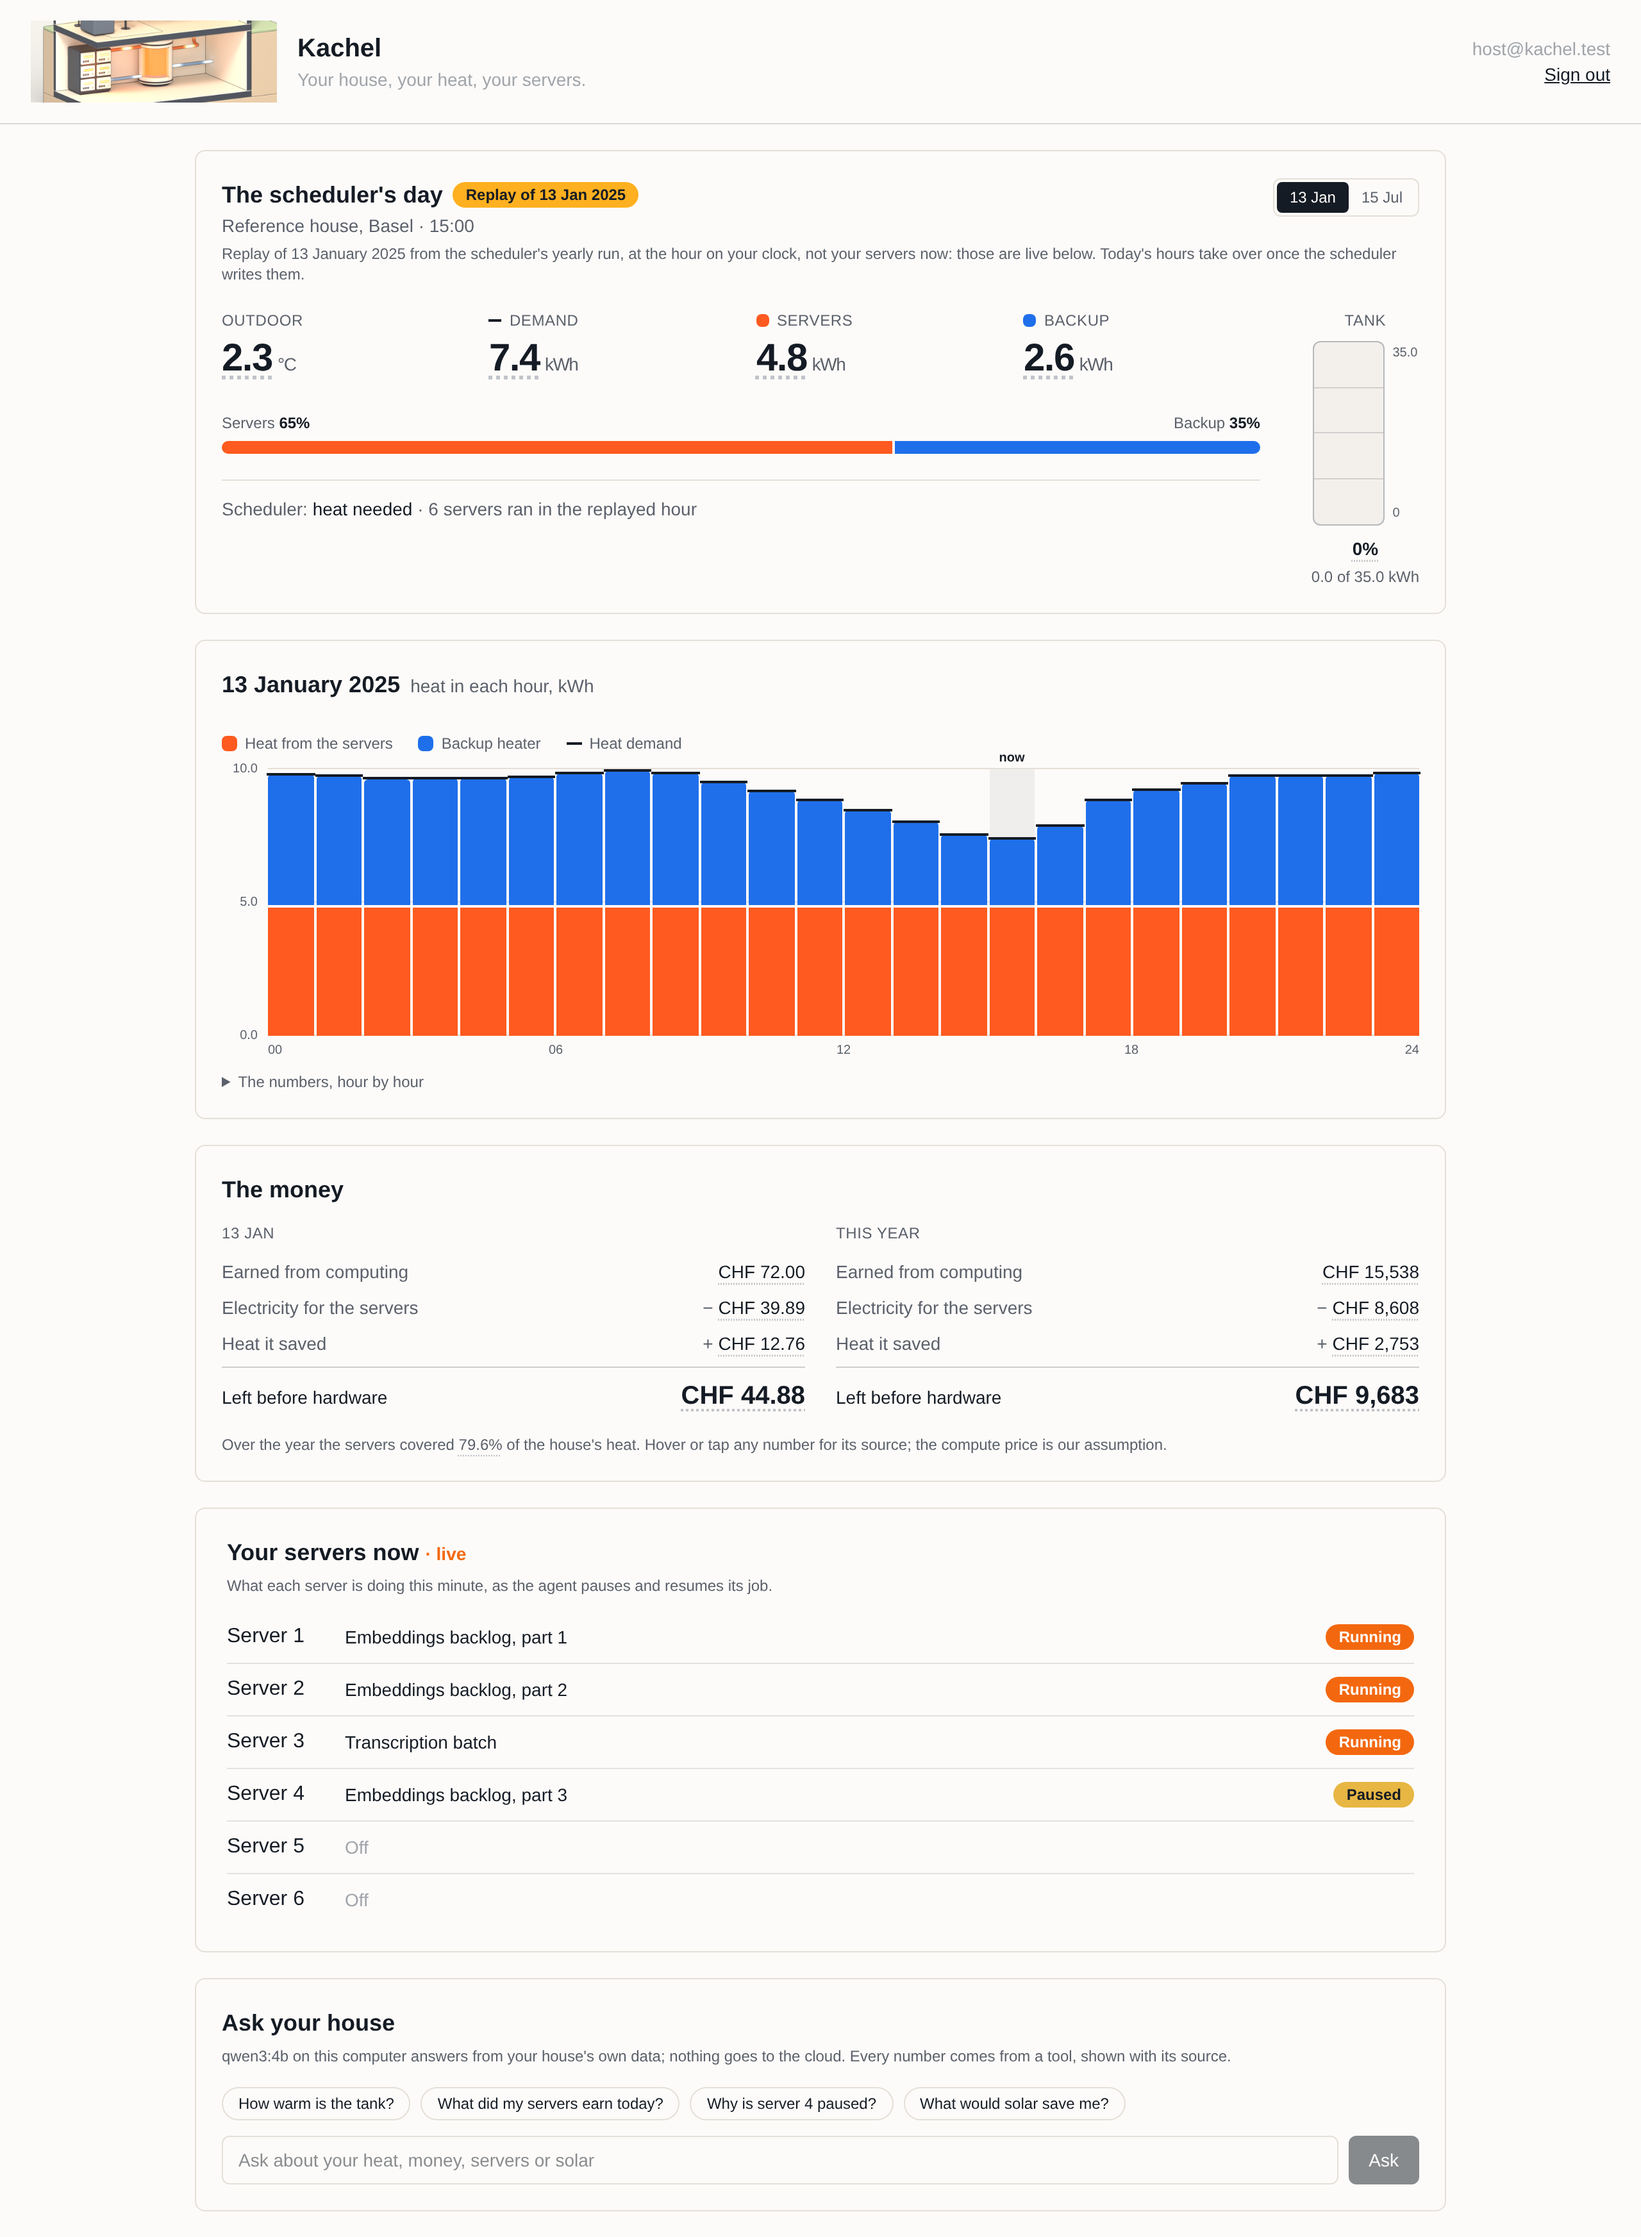
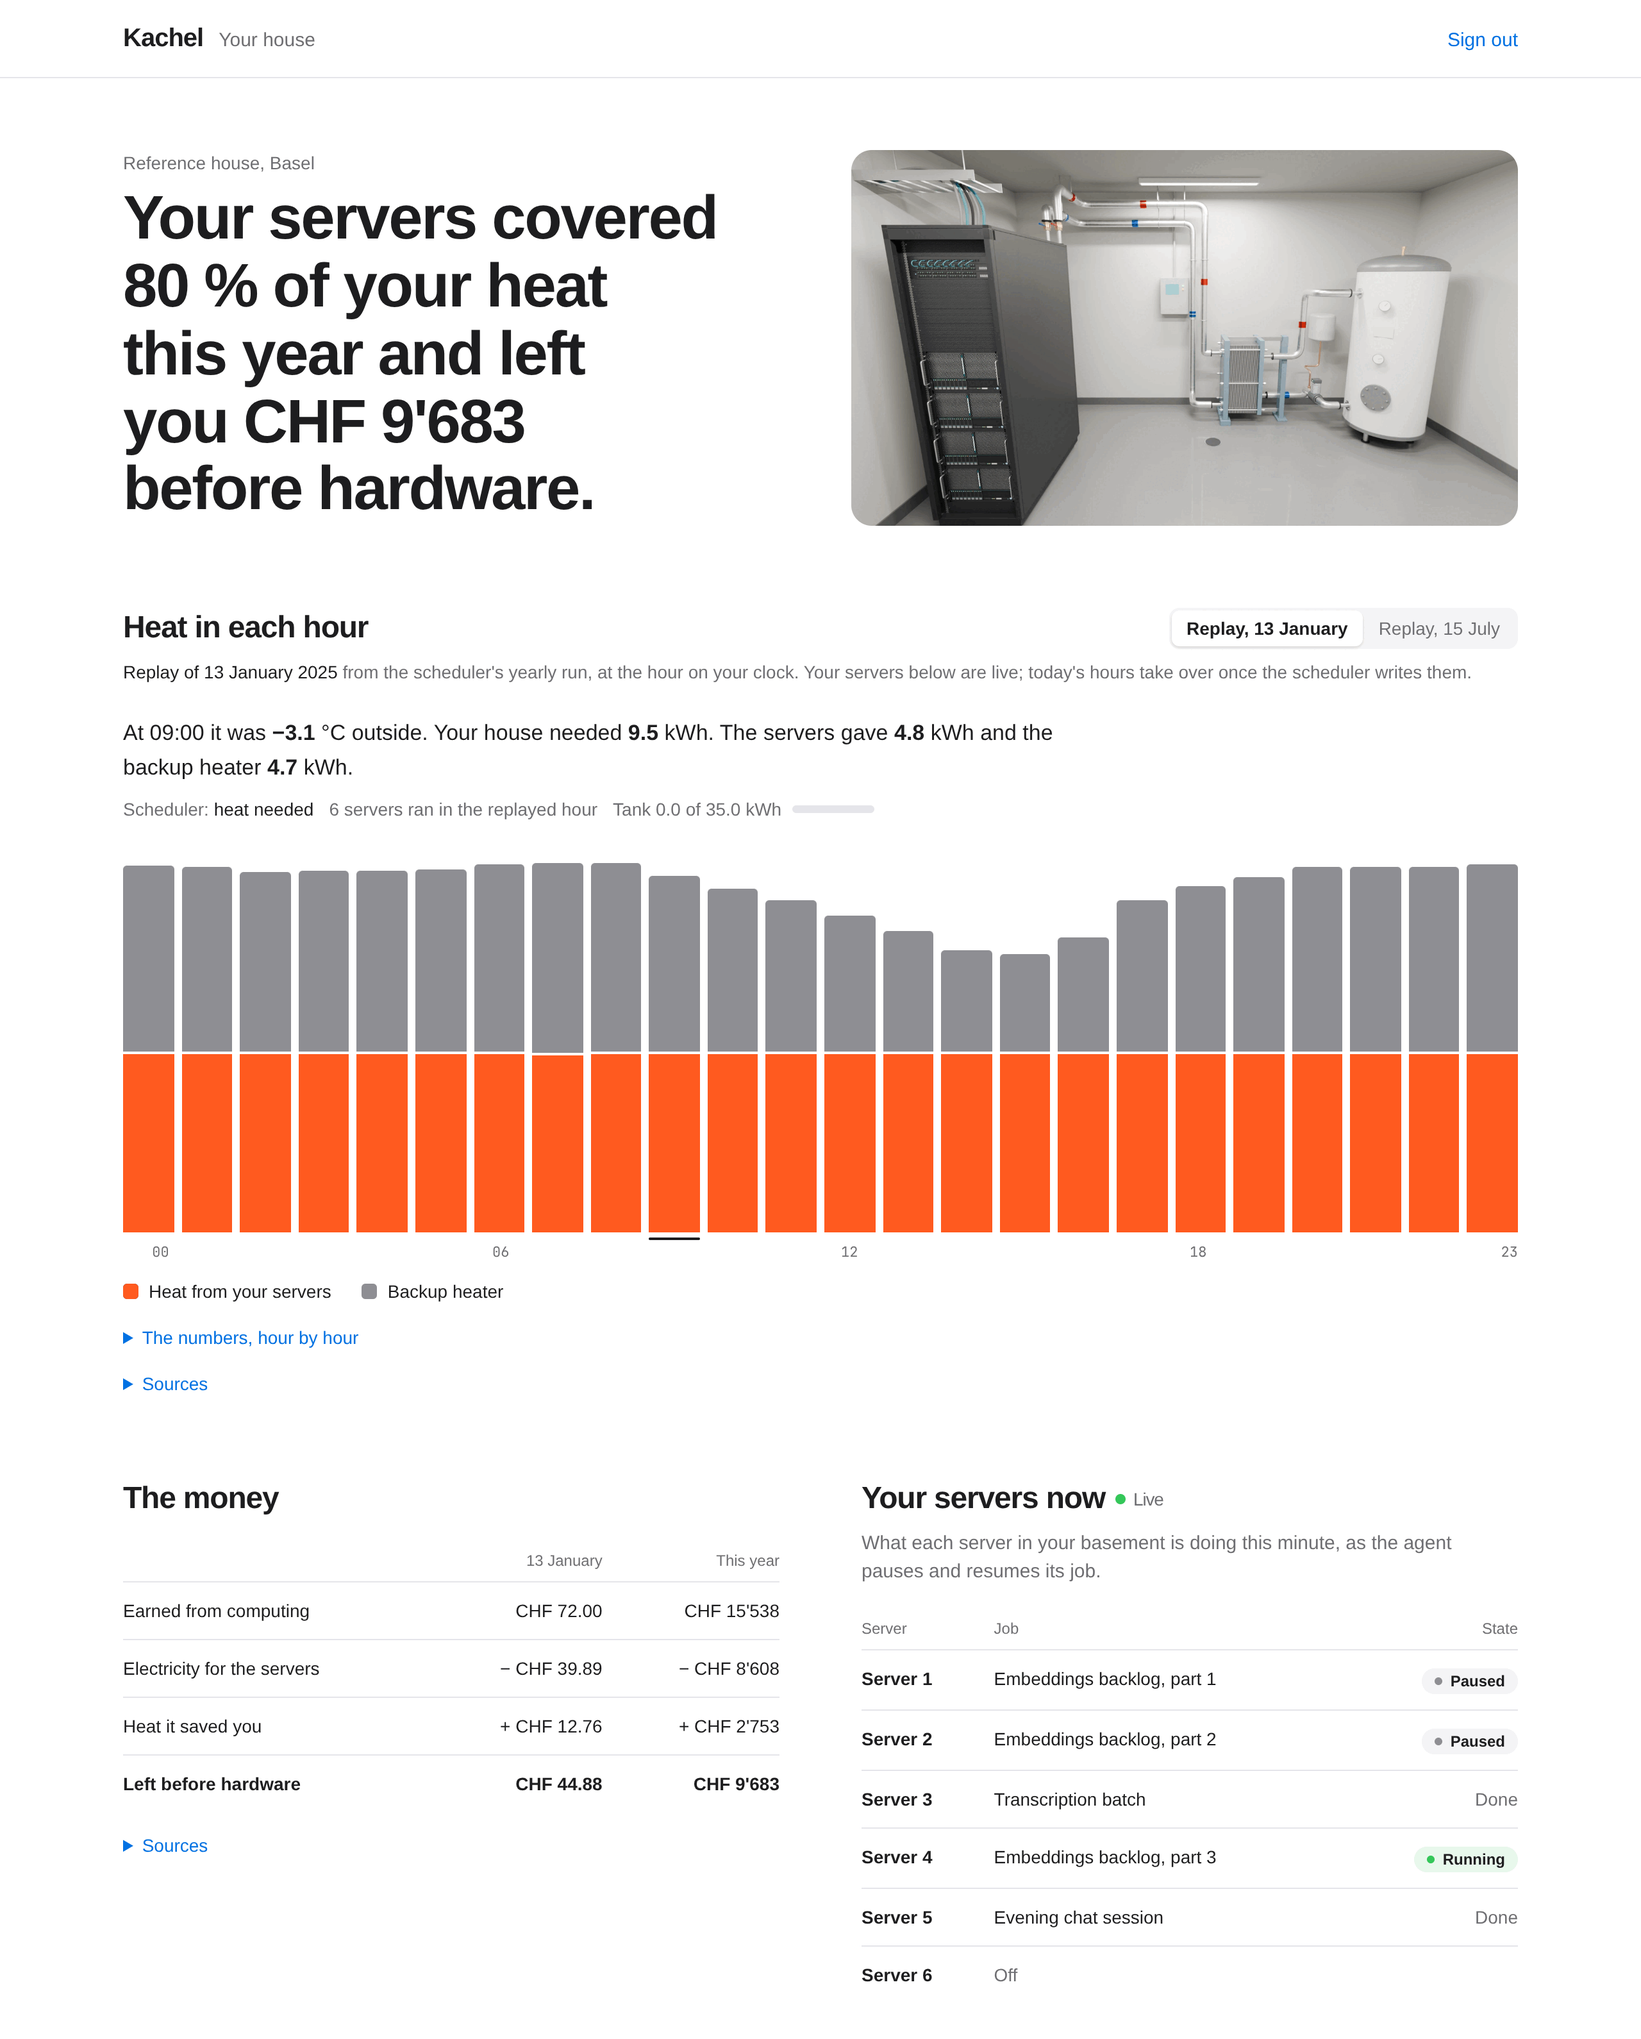
README and wiki: the redesigned consoles, and the operator console (#232)
What: retakes the host app and console screenshots, adds the operator
console (Today, Billing → Settlement, The device) to the README,
docs/media and the wiki, and drops the old dark operator view.
Why: the README still showed the apps from before the redesign (#216),
and the device page from #230 is now on main.
Checked: 1280 px, 2x, en-GB in headless Chromium, every image inspected
close up; `pnpm format:check`, `make check-readme` and the markdown
links pass. The database is as I found it.
For the team: @bila9630 @Loyola-sk, do the alt texts read right to you?

Closes #231

---------

diff --git a/docs/wiki/The-product.md b/docs/wiki/The-product.md
@@ -1,7 +1,7 @@
 # The product
 
 Four apps, one for each person who meets Kachel: the **host app** for the homeowner, the
-**console** for the buyer of compute, the **operator view** for the business that runs the fleet,
+**console** for the buyer of compute, the **operator console** for the business that runs the fleet,
 and the **heat map** for anyone asking where home servers could heat homes. All four run on your
 laptop today; none is deployed.
 
@@ -58,27 +58,29 @@ What is not built yet: nothing places a newly submitted job on a house live. It 
 The jobs that show a house come from the seed or from one hour of a fleet run
 (`fleet_write.py`).
 
-## The operator view: the whole fleet and its revenue
+## The operator console: the whole fleet and its money
 
 `apps/operator`, on http://localhost:5177 in development.
 
-![The operator view in November, signed in as the operator: the year's revenue top right, the month's figures, Basel and Bern with every home and the buyers between them, and the year month by month](https://raw.githubusercontent.com/CPD9/kachel/main/docs/media/app-operator.webp)
+![The operator console's Today page: 95 of 100 homes warm on server heat, servers running and heat covered as cards, the five Bern homes that need a server added, and the fleet on maps of Basel and Bern](https://raw.githubusercontent.com/CPD9/kachel/main/docs/media/operator-today.webp)
 
-One screen, laid out for 1920 × 1080 in the dark look of the pitch app.
+The DigitalHeat console: Today, Buildings, Jobs, Quotes, Billing and The device. The model pages
+need no sign-in; the month and outdoor temperature chosen under Billing hold for every page.
 
-- **The headline.** Revenue this year, top right, and the margin before hardware.
-- **A month bar and a temperature slider.** Pick a month of 2025, or make every hour warmer or
-  colder by up to 6 °C. Heat demand, the servers it can use and the revenue follow.
-- **The month in figures.** Revenue a day and an hour, servers running, heat delivered, backup
-  heat and the month's margin.
-- **The map.** Basel and Bern on swisstopo's grey map, darkened. Every home of the fleet is an
-  orange dot that glows with the heat its servers give that month; the homes in the database
-  are racks.
-- **Compute buyers, live.** Signed in as `operator@kachel.test`, every buyer with what they buy
-  and their jobs: running, paused, queued, done. A cyan line runs from each buyer to every rack
-  holding one of their jobs now (dashed: paused).
-- **The year and every home.** The fleet's heat each month, and each home's servers, size, tank,
-  demand, server heat and backup in kW.
+- **Today.** How many homes ran warm on server heat this month, servers running and heat
+  covered, the homes that need attention with an "Add a server" action, the scheduler's latest
+  decision, and the fleet on swisstopo maps of Basel and Bern.
+- **Buildings, Jobs and Quotes.** Every home of the fleet; the jobs as a full table, with the
+  buyers live from Supabase once you sign in as `operator@kachel.test`; and quotes as a list.
+- **Billing → Settlement.** A month bar and an outdoor temperature slider, then heat used by
+  homes, the margin, and where the electricity and the money went. **The year** shows every
+  month.
+- **The device.** The heat pump and ORC turbine from the pitch film in 3D, marked concept, not
+  built, with how it would work and the Carnot limit.
+
+![Billing, Settlement for November: a month bar with an outdoor temperature slider, heat used by homes and the margin as cards, and where the electricity and the money went as flows](https://raw.githubusercontent.com/CPD9/kachel/main/docs/media/operator-settlement.webp)
+
+![The device page, marked concept, not built: a 3D model of the server rack, heat exchanger, heat pump and ORC turbine with generator, beside five steps of how it would work and the Carnot limit](https://raw.githubusercontent.com/CPD9/kachel/main/docs/media/operator-device.webp)
 
 The home figures come from `make months` (`services/scheduler/out/fleet_months.json`): the 100
 synthetic Basel and Bern homes of the fleet, each run through the scheduler for the year on its

diff --git a/README.md b/README.md
@@ -46,11 +46,19 @@ Before `make dev`, copy `.env.example` to `.env` in `apps/host`, `apps/console` 
 The pitch intro (`apps/pitch`, by Duc) plays a scripted voice prompt, then opens the map at Byfangweg 18 with its card (`?egid=442141&card=1`; `?at=fhnw` targets FHNW Campus Dreispitz, EGID 243058419); with `VITE_MAPBOX_TOKEN` in `apps/pitch/.env` a Mapbox globe flies there first, `a` dives into the house and its questions, and `m` opens the map.
 Row level security shows each person only their own rows, so sign in to the host app as the seeded demo host, `host@kachel.test`, and to the console as the demo buyer, `buyer@kachel.test`, both with the password `kachel-demo` (local stack only).
 
-<p align="center"><img src="docs/media/app-host.png" width="640" alt="The host app signed in as the demo host: six servers, three running a job, one holding a paused job because the house needs no heat, two off"></p>
+<p align="center"><img src="docs/media/app-host.png" width="640" alt="The host app signed in as the demo host: the reference house in Basel, its servers' share of the year's heat and money, today's heat hour by hour from servers and backup heater, the money for the day and the year, and the six servers with their jobs, running, paused or done"></p>
 
-<p align="center"><img src="docs/media/app-console.png" width="640" alt="The console signed in as the demo buyer: a form to submit a job, and a live table of jobs with their state, the house and server each runs on, and the heat it has delivered"></p>
+<p align="center"><img src="docs/media/app-console.png" width="640" alt="The console signed in as the demo buyer: a form to submit a job, and a live table of the buyer's jobs with their kind, state, house, server, heat delivered and deadline"></p>
 
-With both apps running, `pnpm screenshots` retakes these two images with headless Chromium.
+<p align="center"><img src="docs/media/operator-today.webp" width="640" alt="The operator console's Today page: 95 of 100 homes warm on server heat, servers running and heat covered as cards, the five Bern homes that need a server added, and the fleet on maps of Basel and Bern"></p>
+
+<p align="center"><img src="docs/media/operator-settlement.webp" width="640" alt="Billing, Settlement for November: a month bar with an outdoor temperature slider, heat used by homes and the margin as cards, and where the electricity and the money went as flows"></p>
+
+<p align="center"><img src="docs/media/operator-device.webp" width="640" alt="The device page, marked concept, not built: a 3D model of the server rack, heat exchanger, heat pump and ORC turbine with generator, beside five steps of how it would work and the Carnot limit"></p>
+
+<p align="center"><em>The operator console (DigitalHeat), no sign-in needed for the model pages: Today, Billing → Settlement and the device.</em></p>
+
+With the host app and the console running, `pnpm screenshots` retakes their two images with headless Chromium.
 
 To pause and resume a real job from the heat signal, as on stage, follow [the demo checklist](docs/demo-checklist.md). Everything else, the model commands included, is in [Run it yourself](docs/wiki/Run-it-yourself.md). What we hand in for the hackathon is in [docs/submission.md](docs/submission.md). The map, the pitch and the operator view go online as described in [docs/deploy.md](docs/deploy.md).
 

diff --git a/docs/media/README.md b/docs/media/README.md
@@ -82,11 +82,14 @@ turns back.
 The console, where a buyer submits jobs and sees where each one runs and the heat it has
 given. Both app screenshots come from `pnpm screenshots` (scripts/screenshots.mjs).
 
-![The operator view in November: the year's revenue, the month's figures, Basel and Bern with every fleet home and the buyers between them, and the year month by month](app-operator.webp)
+![The operator console's Today page: 95 of 100 homes warm on server heat, servers running and heat covered, the five Bern homes that need a server added, and the fleet on maps of Basel and Bern](operator-today.webp)
 
-The operator view at 1920 × 1080, signed in as the seed's operator: the fleet from `make months`
-on the left, at the top and on the map, the synthetic buyers and their jobs live from Supabase.
-Map © swisstopo.
+![Billing, Settlement for November: a month bar with an outdoor temperature slider, heat used by homes and the margin, and where the electricity and the money went](operator-settlement.webp)
+
+![The device page, marked concept, not built: a 3D model of the server rack, heat exchanger, heat pump and ORC turbine with generator, beside how it would work and the Carnot limit](operator-device.webp)
+
+The DigitalHeat operator console at 1280 px, 2x, en-GB, from the model with no sign-in: Today,
+Billing → Settlement and the device. Map © swisstopo.
 
 ![The host screen: the house at 14:00 on the replayed January day, today's heat hour by hour, the money for the day and the year, and the six servers](host-house.webp)
 
